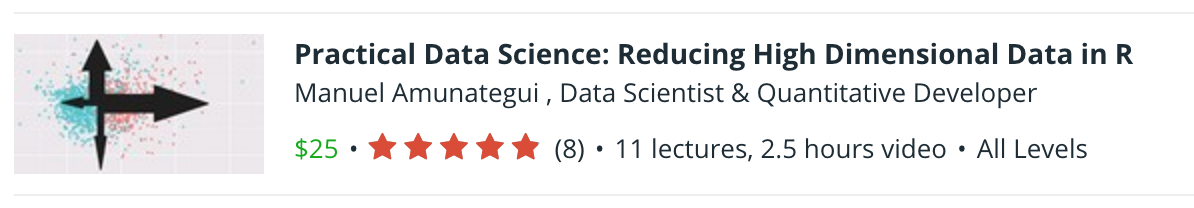
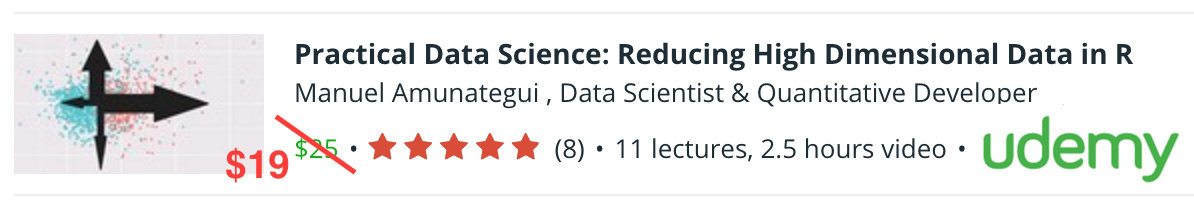
coupon1

diff --git a/_includes/navigation.html b/_includes/navigation.html
@@ -56,7 +56,7 @@
 {% elsif page.path == '_posts/2014-10-13-high-demensions-pca.md' %}
 <BR>
 	<p style="text-align:center;color:red"><B>My 11 lectures on 'Reducing High Dimensional Data in R' available at Udemy.com:</b>
- 	<BR><a href='https://www.udemy.com/practical-data-science-reducing-high-dimensional-data-in-r/' target='_blank'><img src="../img/dimension_redux_udemy.png" alt="free-top-row" style='padding:1px; border:1px solid #021a40;'></a></p>
+ 	<BR><a href='https://www.udemy.com/practical-data-science-reducing-high-dimensional-data-in-r/?couponCode=1111' target='_blank'><img src="../img/reducing-dimensions-r-19.png" alt="free-top-row" style='padding:1px; border:1px solid #021a40;'></a></p>
 
  {% elsif page.path == '_posts/2014-05-15-EC2-RStudioServer.md' %}
  <BR>
@@ -65,11 +65,11 @@
  {% elsif page.path == '_posts/2014-10-22-binary-outcome-modeling.md' %}
 <BR>
 	<p style="text-align:center;color:red"><B>My 11 lectures on 'Reducing High Dimensional Data in R' available at Udemy.com:</b>
- 	<BR><a href='https://www.udemy.com/practical-data-science-reducing-high-dimensional-data-in-r/' target='_blank'><img src="../img/dimension_redux_udemy.png" alt="free-top-row" style='padding:1px; border:1px solid #021a40;'></a></p>
+ 	<BR><a href='https://www.udemy.com/practical-data-science-reducing-high-dimensional-data-in-r/?couponCode=1111' target='_blank'><img src="../img/reducing-dimensions-r-19.png" alt="free-top-row" style='padding:1px; border:1px solid #021a40;'></a></p>
 {% elsif page.path contains '_posts' %}
 <BR>
 	<p style="text-align:center;color:red"><B>My 11 lectures on 'Reducing High Dimensional Data in R' available at Udemy.com:</b>
- 	<BR><a href='https://www.udemy.com/practical-data-science-reducing-high-dimensional-data-in-r/' target='_blank'><img src="../img/dimension_redux_udemy.png" alt="free-top-row" style='padding:1px; border:1px solid #021a40;'></a></p>
+ 	<BR><a href='https://www.udemy.com/practical-data-science-reducing-high-dimensional-data-in-r/?couponCode=1111' target='_blank'><img src="../img/reducing-dimensions-r-19.png" alt="free-top-row" style='padding:1px; border:1px solid #021a40;'></a></p>
 {% elsif page.path contains 'park' %}
 <p align="center">
 	<form action="https://www.paypal.com/cgi-bin/webscr" method="post" target="_top">
@@ -91,6 +91,6 @@
 {% else %}
  <BR><BR>
 	<p style="text-align:center;color:red"><B>My 11 lectures on 'Reducing High Dimensional Data in R' available at Udemy.com:</b>
- 	<BR><a href='https://www.udemy.com/practical-data-science-reducing-high-dimensional-data-in-r/' target='_blank'><img src="../img/dimension_redux_udemy.png" alt="free-top-row" style='padding:1px; border:1px solid #021a40;'></a></p>
+ 	<BR><a href='https://www.udemy.com/practical-data-science-reducing-high-dimensional-data-in-r/?couponCode=1111' target='_blank'><img src="../img/reducing-dimensions-r-19.png" alt="free-top-row" style='padding:1px; border:1px solid #021a40;'></a></p>
 {% endif %} 	
 <p align="center"><a href="http://amunategui.github.io/" rel="tooltip" title="View all posts&quot;"><span class="label label-info">all</span></a> <a href="/tags/exploring" rel="tooltip" title="View posts tagged with &quot;exploring&quot;"><span class="label label-info">exploring</span></a> <a href="/tags/modeling" rel="tooltip" title="View posts tagged with &quot;modeling&quot;"><span class="label label-info">modeling</span></a> <a href="/tags/visualizing" rel="tooltip" title="View posts tagged with &quot;visualizing&quot;"><span class="label label-info">visualizing</span></a> <a href="/tags/rstudioserver" rel="tooltip" title="View posts tagged with &quot;rstudioserver&quot;"><span class="label label-info">rstudioserver</span></a></p>
